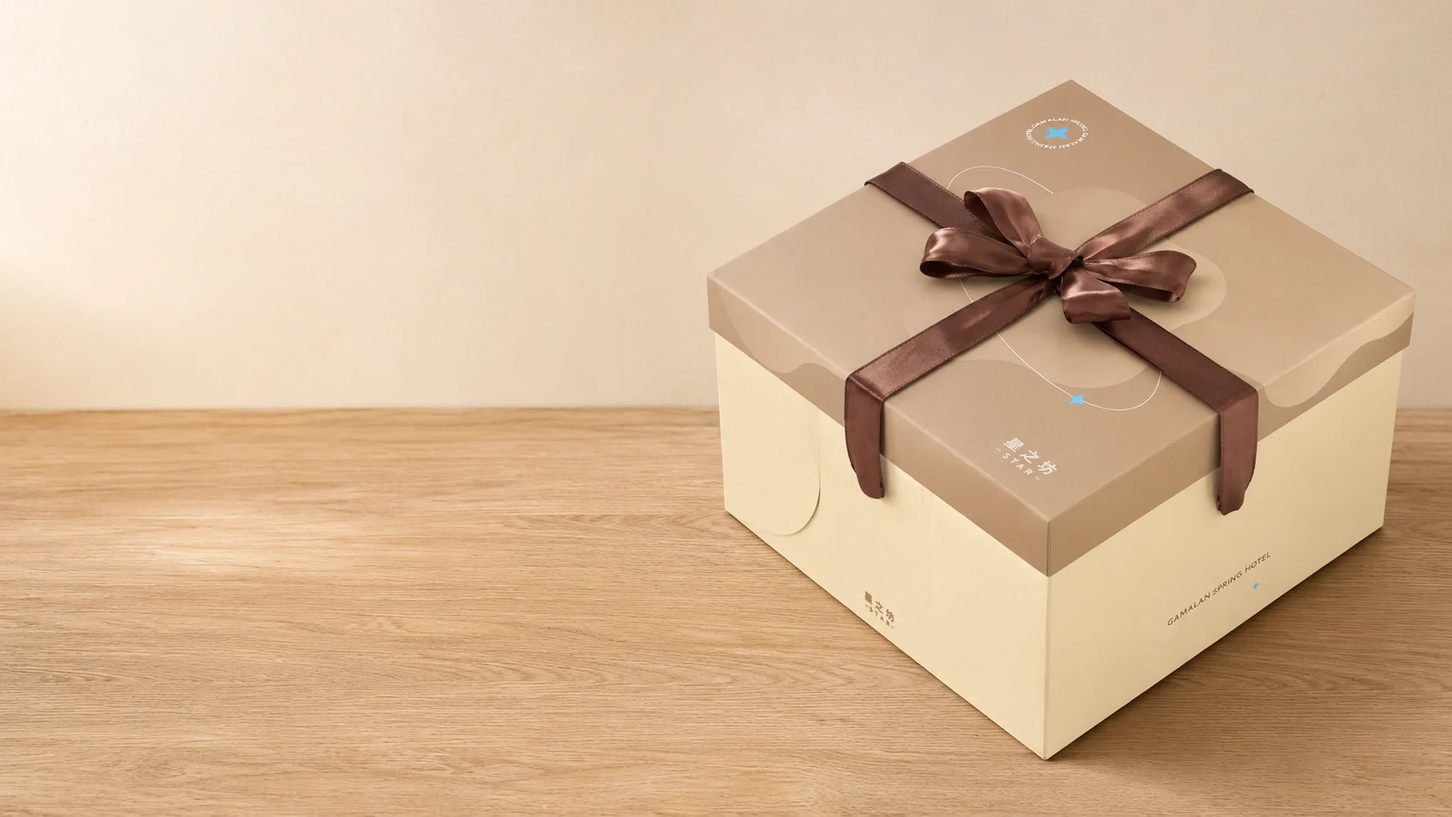
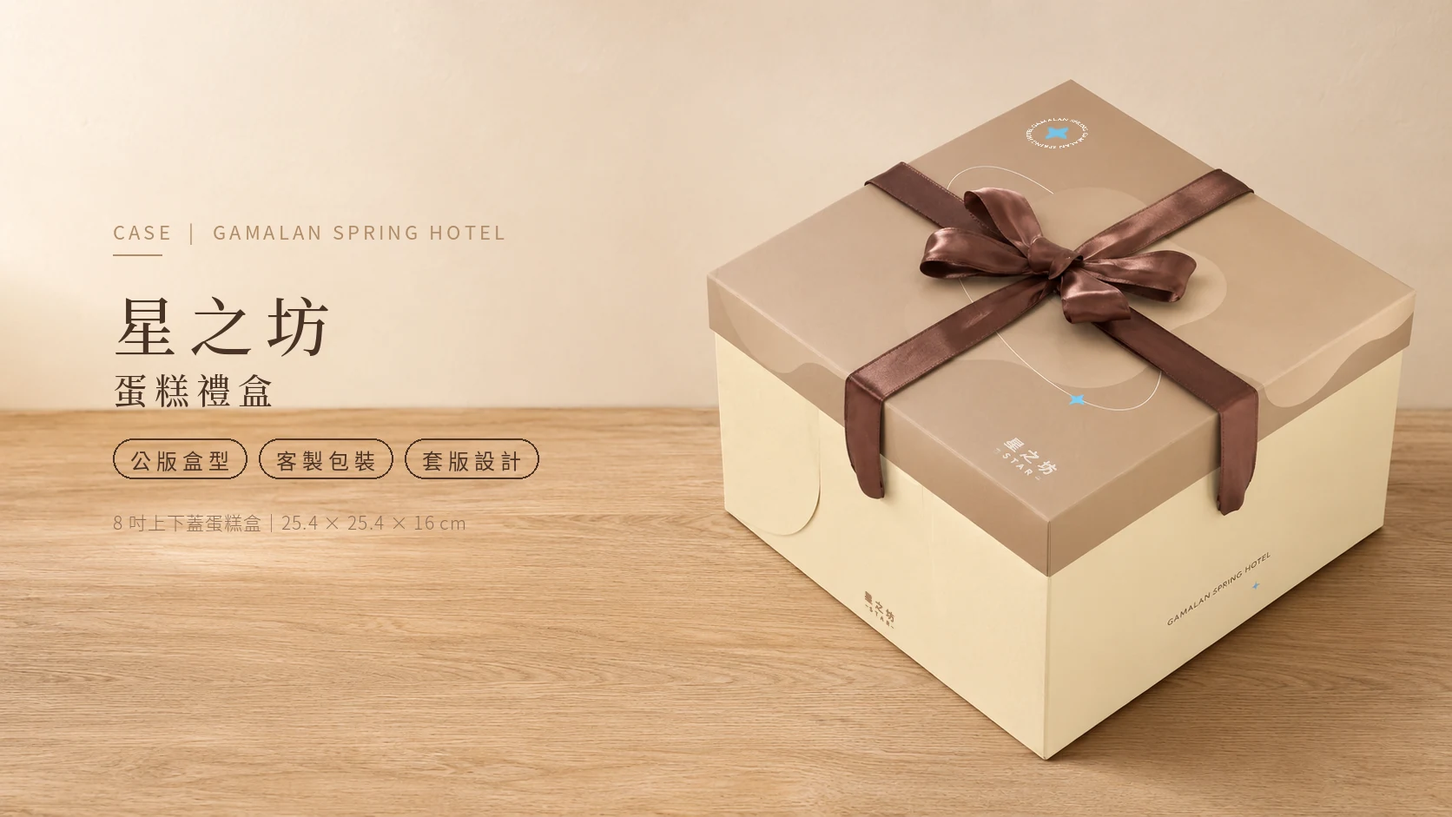
Cases: 星之坊 主視覺改用加字版（左側留白放案例資訊）
Claude-Session: https://claude.ai/code/session_01FHAxfGfD8vpumr7C1YBcXa

diff --git a/cases/gemalan.html b/cases/gemalan.html
@@ -26,7 +26,7 @@
 </header>
 
 <main class="sd-case">
-<article class="cs" style="--cink:#4A3A2E;--caccent:#B39A68;--csub:#9A8C78;--cbg:#FBF6EA"><header class="rl-head2 cs-io"><p class="rl-eb">STOCK PACKAGING</p><h1><span class="rl-lw" style="--lg:url(./gemalan/logo.png);width:min(300px,62vw)"><img class="rl-logo" src="./gemalan/logo.png" alt="葛瑪蘭之星飯店 Logo"></span><span class="sr">葛瑪蘭之星飯店｜星之坊</span></h1><p class="rl-kind">公版盒型・客戶自行設計</p><p class="rl-en">Star Bakery — Cake Boxes on Stock Structures</p><div class="rl-meta2"><div><small>Client</small><b>葛瑪蘭之星飯店｜星之坊</b></div><div><small>Scope</small><b>公版盒型 4 款・印刷生產</b></div><div><small>Year</small><b>2023</b></div></div></header><figure class="rl-hero"><img class="rl-pg" src="./gemalan/s/hero.webp?v=4" alt="星之坊 8吋上下蓋蛋糕盒 情境" loading="eager"></figure><div class="rl-prog" aria-hidden="true"><i></i></div><div class="rl-cnt" aria-hidden="true"><b>01</b><span>/ 09</span></div><section class="rl-reel"><figure class="rl-ai cs-io" style="--W:1920"><div class="rl-st"><img class="rl-pg" src="./gemalan/s/02.webp?v=4" alt="星之坊 02" loading="lazy" decoding="async"><div class="rl-hv"></div><div class="rl-tx"><span class="f-sans" style="--i:0;left:47.750%;top:27.778%;--s:24.0;--ls:0;color:#B39A68;font-weight:600">CLIENT</span><span class="f-serif" style="--i:1;left:41.406%;top:66.667%;--s:30.0;--ls:0;color:#4A3A2E;font-weight:500">葛瑪蘭之星飯店｜星之坊</span></div></div><details class="rl-flow"><summary>展開本頁文字</summary><div class="rl-fb"><p>葛瑪蘭之星飯店｜星之坊</p></div></details></figure><figure class="rl-ai cs-io" style="--W:1920"><div class="rl-st"><img class="rl-pg" src="./gemalan/s/c1.webp?v=5" alt="星之坊 c1" loading="lazy" decoding="async"><div class="rl-hv"></div><div class="rl-tx"><span class="f-sans" style="--i:0;left:4.167%;top:6.481%;--s:24.0;--ls:0.2;color:#B39A68;font-weight:600">STOCK STRUCTURE 01</span><span class="f-sans" style="--i:1;left:4.167%;top:9.815%;--s:24.0;--ls:0;color:#B39A68;font-weight:300">/</span><span class="f-serif" style="--i:2;left:5.625%;top:10.185%;--s:34.0;--ls:0;color:#4A3A2E;font-weight:700">公版盒型</span><span class="f-serif" style="--i:3;left:20.938%;top:86.111%;--s:26.0;--ls:0;color:#6F6A64;font-weight:700">薪鼎公版盒型</span><span class="f-sans" style="--i:4;left:20.834%;top:90.278%;--s:20.0;--ls:0;color:#8E8880;font-weight:400">公版花色「絮語」</span><span class="f-serif" style="--i:5;left:69.854%;top:86.111%;--s:26.0;--ls:0;color:#4A3A2E;font-weight:700">星之坊 套用設計</span><span class="f-sans" style="--i:6;left:66.563%;top:90.278%;--s:20.0;--ls:0;color:#9A8C78;font-weight:400">4吋手提蛋糕盒・14×14×10.5 cm</span></div></div><details class="rl-flow"><summary>展開本頁文字</summary><div class="rl-fb"><p>公版盒型：4吋手提蛋糕盒 14×14×10.5 cm</p><p>左：薪鼎公版盒型（公版花色「絮語」）</p><p>右：星之坊 套用設計</p></div></details></figure><figure class="rl-ai cs-io" style="--W:1920"><div class="rl-st"><img class="rl-pg" src="./gemalan/s/c2.webp?v=5" alt="星之坊 c2" loading="lazy" decoding="async"><div class="rl-hv"></div><div class="rl-tx"><span class="f-sans" style="--i:0;left:4.167%;top:6.481%;--s:24.0;--ls:0.2;color:#B39A68;font-weight:600">STOCK STRUCTURE 02</span><span class="f-sans" style="--i:1;left:4.167%;top:9.815%;--s:24.0;--ls:0;color:#B39A68;font-weight:300">/</span><span class="f-serif" style="--i:2;left:5.625%;top:10.185%;--s:34.0;--ls:0;color:#4A3A2E;font-weight:700">公版盒型</span><span class="f-serif" style="--i:3;left:20.938%;top:86.111%;--s:26.0;--ls:0;color:#6F6A64;font-weight:700">薪鼎公版盒型</span><span class="f-sans" style="--i:4;left:20.834%;top:90.278%;--s:20.0;--ls:0;color:#8E8880;font-weight:400">公版花色「絮語」</span><span class="f-serif" style="--i:5;left:69.854%;top:86.111%;--s:26.0;--ls:0;color:#4A3A2E;font-weight:700">星之坊 套用設計</span><span class="f-sans" style="--i:6;left:66.667%;top:90.278%;--s:20.0;--ls:0;color:#9A8C78;font-weight:400">6吋上下蓋蛋糕盒・21×21×16 cm</span></div></div><details class="rl-flow"><summary>展開本頁文字</summary><div class="rl-fb"><p>公版盒型：6吋上下蓋蛋糕盒 21×21×16 cm</p><p>左：薪鼎公版盒型（公版花色「絮語」）</p><p>右：星之坊 套用設計</p></div></details></figure><figure class="rl-ai cs-io" style="--W:1920"><div class="rl-st"><img class="rl-pg" src="./gemalan/s/c3.webp?v=5" alt="星之坊 c3" loading="lazy" decoding="async"><div class="rl-hv"></div><div class="rl-tx"><span class="f-sans" style="--i:0;left:4.167%;top:6.481%;--s:24.0;--ls:0.2;color:#B39A68;font-weight:600">STOCK STRUCTURE 03</span><span class="f-sans" style="--i:1;left:4.167%;top:9.815%;--s:24.0;--ls:0;color:#B39A68;font-weight:300">/</span><span class="f-serif" style="--i:2;left:5.625%;top:10.185%;--s:34.0;--ls:0;color:#4A3A2E;font-weight:700">公版盒型</span><span class="f-serif" style="--i:3;left:20.938%;top:86.111%;--s:26.0;--ls:0;color:#6F6A64;font-weight:700">薪鼎公版盒型</span><span class="f-sans" style="--i:4;left:20.313%;top:90.278%;--s:20.0;--ls:0;color:#8E8880;font-weight:400">公版花色「蒲公英」</span><span class="f-serif" style="--i:5;left:69.854%;top:86.111%;--s:26.0;--ls:0;color:#4A3A2E;font-weight:700">星之坊 套用設計</span><span class="f-sans" style="--i:6;left:65.417%;top:90.278%;--s:20.0;--ls:0;color:#9A8C78;font-weight:400">8吋上下蓋蛋糕盒・25.4×25.4×16 cm</span></div></div><details class="rl-flow"><summary>展開本頁文字</summary><div class="rl-fb"><p>公版盒型：8吋上下蓋蛋糕盒 25.4×25.4×16 cm</p><p>左：薪鼎公版盒型（公版花色「蒲公英」）</p><p>右：星之坊 套用設計</p></div></details></figure><figure class="rl-ai cs-io" style="--W:1920"><div class="rl-st"><img class="rl-pg" src="./gemalan/s/c4.webp?v=5" alt="星之坊 c4" loading="lazy" decoding="async"><div class="rl-hv"></div><div class="rl-tx"><span class="f-sans" style="--i:0;left:4.167%;top:6.481%;--s:24.0;--ls:0.2;color:#B39A68;font-weight:600">STOCK STRUCTURE 04</span><span class="f-sans" style="--i:1;left:4.167%;top:9.815%;--s:24.0;--ls:0;color:#B39A68;font-weight:300">/</span><span class="f-serif" style="--i:2;left:5.625%;top:10.185%;--s:34.0;--ls:0;color:#4A3A2E;font-weight:700">公版盒型</span><span class="f-serif" style="--i:3;left:20.938%;top:86.111%;--s:26.0;--ls:0;color:#6F6A64;font-weight:700">薪鼎公版盒型</span><span class="f-sans" style="--i:4;left:20.834%;top:90.278%;--s:20.0;--ls:0;color:#8E8880;font-weight:400">公版花色「絮語」</span><span class="f-serif" style="--i:5;left:69.854%;top:86.111%;--s:26.0;--ls:0;color:#4A3A2E;font-weight:700">星之坊 套用設計</span><span class="f-sans" style="--i:6;left:65.417%;top:90.278%;--s:20.0;--ls:0;color:#9A8C78;font-weight:400">花瓣盒（切片蛋糕盒）・15×10×13 cm</span></div></div><details class="rl-flow"><summary>展開本頁文字</summary><div class="rl-fb"><p>公版盒型：花瓣盒（切片蛋糕盒） 15×10×13 cm</p><p>左：薪鼎公版盒型（公版花色「絮語」）</p><p>右：星之坊 套用設計</p></div></details></figure><figure class="rl-ai cs-io" style="--W:1920"><div class="rl-st"><img class="rl-pg" src="./gemalan/s/04.webp?v=4" alt="星之坊 04" loading="lazy" decoding="async"><div class="rl-hv"></div><div class="rl-tx"><span class="f-sans" style="--i:0;left:4.167%;top:6.481%;--s:26.0;--ls:0.2;color:#B39A68;font-weight:600">APPLIED DESIGN</span><span class="f-sans" style="--i:1;left:4.167%;top:10.000%;--s:26.0;--ls:0;color:#B39A68;font-weight:300">/</span><span class="f-serif" style="--i:2;left:5.833%;top:10.370%;--s:34.0;--ls:0;color:#4A3A2E;font-weight:700">套用的設計</span><span class="f-sans" style="--i:3;left:9.375%;top:30.556%;--s:24.0;--ls:0;color:#9A8C78;font-weight:500">設計來源</span><span class="f-serif" style="--i:4;left:9.375%;top:34.259%;--s:40.0;--ls:0;color:#4A3A2E;font-weight:700">客戶自行設計</span><span class="f-sans" style="--i:5;left:9.375%;top:42.593%;--s:24.0;--ls:0;color:#9A8C78;font-weight:500">品牌標誌</span><span class="f-serif" style="--i:6;left:9.375%;top:46.296%;--s:32.0;--ls:0;color:#4A3A2E;font-weight:600">星之坊 STAR</span><span class="f-sans" style="--i:7;left:10.677%;top:67.593%;--s:20.0;--ls:0;color:#9A8C78;font-weight:500">奶油黃</span><span class="f-sans" style="--i:8;left:18.490%;top:67.593%;--s:20.0;--ls:0;color:#9A8C78;font-weight:500">檸檬黃</span><span class="f-sans" style="--i:9;left:26.823%;top:67.593%;--s:20.0;--ls:0;color:#9A8C78;font-weight:500">沙金</span><span class="f-sans" style="--i:10;left:34.115%;top:67.593%;--s:20.0;--ls:0;color:#9A8C78;font-weight:500">可可棕</span><span class="f-sans" style="--i:11;left:42.969%;top:67.593%;--s:20.0;--ls:0;color:#9A8C78;font-weight:500">白</span></div></div><details class="rl-flow"><summary>展開本頁文字</summary><div class="rl-fb"><p>設計來源：客戶自行設計</p><p>品牌標誌：星之坊 STAR</p></div></details></figure><figure class="rl-ai cs-io" style="--W:1920"><div class="rl-st"><img class="rl-pg" src="./gemalan/s/sc6.webp?v=4" alt="星之坊 6吋上下蓋蛋糕盒 情境" loading="lazy" decoding="async"><div class="rl-hv"></div><div class="rl-tx"><span class="f-sans" style="--i:0;left:7.292%;top:30.556%;--s:22.0;--ls:0.2;color:#B39A68;font-weight:600">IN USE 02</span><span class="f-serif" style="--i:1;left:7.292%;top:35.185%;--s:40.0;--ls:0;color:#4A3A2E;font-weight:700">6吋上下蓋蛋糕盒</span><span class="f-sans" style="--i:2;left:7.292%;top:42.593%;--s:20.0;--ls:0;color:#9A8C78;font-weight:400">21 × 21 × 16 cm</span></div></div><details class="rl-flow"><summary>展開本頁文字</summary><div class="rl-fb"><p>6吋上下蓋蛋糕盒 21 × 21 × 16 cm</p></div></details></figure><figure class="rl-ai cs-io" style="--W:1920"><div class="rl-st"><img class="rl-pg" src="./gemalan/s/scpetal.webp?v=4" alt="星之坊 花瓣盒 情境" loading="lazy" decoding="async"><div class="rl-hv"></div><div class="rl-tx"><span class="f-sans" style="--i:0;left:7.292%;top:30.556%;--s:22.0;--ls:0.2;color:#B39A68;font-weight:600">IN USE 03</span><span class="f-serif" style="--i:1;left:7.292%;top:35.185%;--s:40.0;--ls:0;color:#4A3A2E;font-weight:700">花瓣盒（切片蛋糕盒）</span><span class="f-sans" style="--i:2;left:7.292%;top:42.593%;--s:20.0;--ls:0;color:#9A8C78;font-weight:400">15 × 10 × 13 cm</span></div></div><details class="rl-flow"><summary>展開本頁文字</summary><div class="rl-fb"><p>花瓣盒（切片蛋糕盒） 15 × 10 × 13 cm</p></div></details></figure></section><section class="rl-cred"><div class="rl-cl"><p class="rl-ck">Credits</p><p class="rl-nt">（名單待確認）</p></div><ul><li><small>Client</small><b>葛瑪蘭之星飯店｜星之坊</b></li><li><small>Design</small><b>客戶自行設計</b></li><li><small>Stock Structures</small><b>薪鼎公版盒型</b></li><li><small>Production</small><b>Senior Deed</b></li><li><small>Year</small><b>2023</b></li></ul></section><div class="rl-end" style="padding-top:90px"><a href="./"><i>←</i>回到全部作品</a></div></article><script>(function(){document.querySelectorAll('.rl-st').forEach(function(st){var hs=[].slice.call(st.querySelectorAll('.hot'));if(!hs.length)return;var cur=null;function set(g){if(g===cur)return;cur=g;st.querySelectorAll('.hi').forEach(function(e){e.classList.remove('hi')});st.classList.toggle('hv',g!==null);if(g!==null)st.querySelectorAll('[data-g="'+g+'"]').forEach(function(e){e.classList.add('hi')})}st.addEventListener('mousemove',function(ev){var g=null;hs.forEach(function(h){var r=h.getBoundingClientRect();if(ev.clientX>=r.left&&ev.clientX<=r.right&&ev.clientY>=r.top&&ev.clientY<=r.bottom)g=h.dataset.g});set(g)});st.addEventListener('mouseleave',function(){set(null)})});document.addEventListener('click',function(e){var x=e.target.closest('.hex');if(!x)return;var v=x.textContent.trim();(navigator.clipboard?navigator.clipboard.writeText(v):Promise.reject()).catch(function(){}).then(function(){x.classList.add('ok');setTimeout(function(){x.classList.remove('ok')},1400)})});var F=document.querySelector('.rl-float');if(F&&matchMedia('(any-hover:none)').matches){var fo=new IntersectionObserver(function(es){if(es[0].isIntersecting){setTimeout(function(){F.classList.add('go')},2600);fo.disconnect()}},{threshold:.5});fo.observe(F.parentNode)}var R=document.querySelector('.rl-reel');if(R){var bar=document.querySelector('.rl-prog i'),cnt=document.querySelector('.rl-cnt b'),box=document.querySelector('.rl-cnt'),ims=document.querySelectorAll('.rl-pg');function u(){var r=R.getBoundingClientRect(),h=r.height-innerHeight,p=Math.min(1,Math.max(0,-r.top/h));bar.style.transform='scaleX('+p+')';var k=1;ims.forEach(function(im,i){if(im.getBoundingClientRect().top<innerHeight*.5)k=i+1});cnt.textContent=(k<10?'0':'')+k;var on=r.top<120&&r.bottom>innerHeight*.75;box.classList.toggle('on',on);document.querySelector('.rl-prog').classList.toggle('on',on)}addEventListener('scroll',u,{passive:true});u()}var io=new IntersectionObserver(function(es){es.forEach(function(e){if(e.isIntersecting){e.target.classList.add("on");(function(t){setTimeout(function(){t.classList.add("ready")},2600)})(e.target);io.unobserve(e.target)}})},{threshold:.18,rootMargin:"0px 0px -6% 0px"});
+<article class="cs" style="--cink:#4A3A2E;--caccent:#B39A68;--csub:#9A8C78;--cbg:#FBF6EA"><header class="rl-head2 cs-io"><p class="rl-eb">STOCK PACKAGING</p><h1><span class="rl-lw" style="--lg:url(./gemalan/logo.png);width:min(300px,62vw)"><img class="rl-logo" src="./gemalan/logo.png" alt="葛瑪蘭之星飯店 Logo"></span><span class="sr">葛瑪蘭之星飯店｜星之坊</span></h1><p class="rl-kind">公版盒型・客戶自行設計</p><p class="rl-en">Star Bakery — Cake Boxes on Stock Structures</p><div class="rl-meta2"><div><small>Client</small><b>葛瑪蘭之星飯店｜星之坊</b></div><div><small>Scope</small><b>公版盒型 4 款・印刷生產</b></div><div><small>Year</small><b>2023</b></div></div></header><figure class="rl-hero"><img class="rl-pg" src="./gemalan/s/hero.webp?v=5" alt="星之坊 8吋上下蓋蛋糕盒 情境" loading="eager"></figure><div class="rl-prog" aria-hidden="true"><i></i></div><div class="rl-cnt" aria-hidden="true"><b>01</b><span>/ 09</span></div><section class="rl-reel"><figure class="rl-ai cs-io" style="--W:1920"><div class="rl-st"><img class="rl-pg" src="./gemalan/s/02.webp?v=4" alt="星之坊 02" loading="lazy" decoding="async"><div class="rl-hv"></div><div class="rl-tx"><span class="f-sans" style="--i:0;left:47.750%;top:27.778%;--s:24.0;--ls:0;color:#B39A68;font-weight:600">CLIENT</span><span class="f-serif" style="--i:1;left:41.406%;top:66.667%;--s:30.0;--ls:0;color:#4A3A2E;font-weight:500">葛瑪蘭之星飯店｜星之坊</span></div></div><details class="rl-flow"><summary>展開本頁文字</summary><div class="rl-fb"><p>葛瑪蘭之星飯店｜星之坊</p></div></details></figure><figure class="rl-ai cs-io" style="--W:1920"><div class="rl-st"><img class="rl-pg" src="./gemalan/s/c1.webp?v=5" alt="星之坊 c1" loading="lazy" decoding="async"><div class="rl-hv"></div><div class="rl-tx"><span class="f-sans" style="--i:0;left:4.167%;top:6.481%;--s:24.0;--ls:0.2;color:#B39A68;font-weight:600">STOCK STRUCTURE 01</span><span class="f-sans" style="--i:1;left:4.167%;top:9.815%;--s:24.0;--ls:0;color:#B39A68;font-weight:300">/</span><span class="f-serif" style="--i:2;left:5.625%;top:10.185%;--s:34.0;--ls:0;color:#4A3A2E;font-weight:700">公版盒型</span><span class="f-serif" style="--i:3;left:20.938%;top:86.111%;--s:26.0;--ls:0;color:#6F6A64;font-weight:700">薪鼎公版盒型</span><span class="f-sans" style="--i:4;left:20.834%;top:90.278%;--s:20.0;--ls:0;color:#8E8880;font-weight:400">公版花色「絮語」</span><span class="f-serif" style="--i:5;left:69.854%;top:86.111%;--s:26.0;--ls:0;color:#4A3A2E;font-weight:700">星之坊 套用設計</span><span class="f-sans" style="--i:6;left:66.563%;top:90.278%;--s:20.0;--ls:0;color:#9A8C78;font-weight:400">4吋手提蛋糕盒・14×14×10.5 cm</span></div></div><details class="rl-flow"><summary>展開本頁文字</summary><div class="rl-fb"><p>公版盒型：4吋手提蛋糕盒 14×14×10.5 cm</p><p>左：薪鼎公版盒型（公版花色「絮語」）</p><p>右：星之坊 套用設計</p></div></details></figure><figure class="rl-ai cs-io" style="--W:1920"><div class="rl-st"><img class="rl-pg" src="./gemalan/s/c2.webp?v=5" alt="星之坊 c2" loading="lazy" decoding="async"><div class="rl-hv"></div><div class="rl-tx"><span class="f-sans" style="--i:0;left:4.167%;top:6.481%;--s:24.0;--ls:0.2;color:#B39A68;font-weight:600">STOCK STRUCTURE 02</span><span class="f-sans" style="--i:1;left:4.167%;top:9.815%;--s:24.0;--ls:0;color:#B39A68;font-weight:300">/</span><span class="f-serif" style="--i:2;left:5.625%;top:10.185%;--s:34.0;--ls:0;color:#4A3A2E;font-weight:700">公版盒型</span><span class="f-serif" style="--i:3;left:20.938%;top:86.111%;--s:26.0;--ls:0;color:#6F6A64;font-weight:700">薪鼎公版盒型</span><span class="f-sans" style="--i:4;left:20.834%;top:90.278%;--s:20.0;--ls:0;color:#8E8880;font-weight:400">公版花色「絮語」</span><span class="f-serif" style="--i:5;left:69.854%;top:86.111%;--s:26.0;--ls:0;color:#4A3A2E;font-weight:700">星之坊 套用設計</span><span class="f-sans" style="--i:6;left:66.667%;top:90.278%;--s:20.0;--ls:0;color:#9A8C78;font-weight:400">6吋上下蓋蛋糕盒・21×21×16 cm</span></div></div><details class="rl-flow"><summary>展開本頁文字</summary><div class="rl-fb"><p>公版盒型：6吋上下蓋蛋糕盒 21×21×16 cm</p><p>左：薪鼎公版盒型（公版花色「絮語」）</p><p>右：星之坊 套用設計</p></div></details></figure><figure class="rl-ai cs-io" style="--W:1920"><div class="rl-st"><img class="rl-pg" src="./gemalan/s/c3.webp?v=5" alt="星之坊 c3" loading="lazy" decoding="async"><div class="rl-hv"></div><div class="rl-tx"><span class="f-sans" style="--i:0;left:4.167%;top:6.481%;--s:24.0;--ls:0.2;color:#B39A68;font-weight:600">STOCK STRUCTURE 03</span><span class="f-sans" style="--i:1;left:4.167%;top:9.815%;--s:24.0;--ls:0;color:#B39A68;font-weight:300">/</span><span class="f-serif" style="--i:2;left:5.625%;top:10.185%;--s:34.0;--ls:0;color:#4A3A2E;font-weight:700">公版盒型</span><span class="f-serif" style="--i:3;left:20.938%;top:86.111%;--s:26.0;--ls:0;color:#6F6A64;font-weight:700">薪鼎公版盒型</span><span class="f-sans" style="--i:4;left:20.313%;top:90.278%;--s:20.0;--ls:0;color:#8E8880;font-weight:400">公版花色「蒲公英」</span><span class="f-serif" style="--i:5;left:69.854%;top:86.111%;--s:26.0;--ls:0;color:#4A3A2E;font-weight:700">星之坊 套用設計</span><span class="f-sans" style="--i:6;left:65.417%;top:90.278%;--s:20.0;--ls:0;color:#9A8C78;font-weight:400">8吋上下蓋蛋糕盒・25.4×25.4×16 cm</span></div></div><details class="rl-flow"><summary>展開本頁文字</summary><div class="rl-fb"><p>公版盒型：8吋上下蓋蛋糕盒 25.4×25.4×16 cm</p><p>左：薪鼎公版盒型（公版花色「蒲公英」）</p><p>右：星之坊 套用設計</p></div></details></figure><figure class="rl-ai cs-io" style="--W:1920"><div class="rl-st"><img class="rl-pg" src="./gemalan/s/c4.webp?v=5" alt="星之坊 c4" loading="lazy" decoding="async"><div class="rl-hv"></div><div class="rl-tx"><span class="f-sans" style="--i:0;left:4.167%;top:6.481%;--s:24.0;--ls:0.2;color:#B39A68;font-weight:600">STOCK STRUCTURE 04</span><span class="f-sans" style="--i:1;left:4.167%;top:9.815%;--s:24.0;--ls:0;color:#B39A68;font-weight:300">/</span><span class="f-serif" style="--i:2;left:5.625%;top:10.185%;--s:34.0;--ls:0;color:#4A3A2E;font-weight:700">公版盒型</span><span class="f-serif" style="--i:3;left:20.938%;top:86.111%;--s:26.0;--ls:0;color:#6F6A64;font-weight:700">薪鼎公版盒型</span><span class="f-sans" style="--i:4;left:20.834%;top:90.278%;--s:20.0;--ls:0;color:#8E8880;font-weight:400">公版花色「絮語」</span><span class="f-serif" style="--i:5;left:69.854%;top:86.111%;--s:26.0;--ls:0;color:#4A3A2E;font-weight:700">星之坊 套用設計</span><span class="f-sans" style="--i:6;left:65.417%;top:90.278%;--s:20.0;--ls:0;color:#9A8C78;font-weight:400">花瓣盒（切片蛋糕盒）・15×10×13 cm</span></div></div><details class="rl-flow"><summary>展開本頁文字</summary><div class="rl-fb"><p>公版盒型：花瓣盒（切片蛋糕盒） 15×10×13 cm</p><p>左：薪鼎公版盒型（公版花色「絮語」）</p><p>右：星之坊 套用設計</p></div></details></figure><figure class="rl-ai cs-io" style="--W:1920"><div class="rl-st"><img class="rl-pg" src="./gemalan/s/04.webp?v=4" alt="星之坊 04" loading="lazy" decoding="async"><div class="rl-hv"></div><div class="rl-tx"><span class="f-sans" style="--i:0;left:4.167%;top:6.481%;--s:26.0;--ls:0.2;color:#B39A68;font-weight:600">APPLIED DESIGN</span><span class="f-sans" style="--i:1;left:4.167%;top:10.000%;--s:26.0;--ls:0;color:#B39A68;font-weight:300">/</span><span class="f-serif" style="--i:2;left:5.833%;top:10.370%;--s:34.0;--ls:0;color:#4A3A2E;font-weight:700">套用的設計</span><span class="f-sans" style="--i:3;left:9.375%;top:30.556%;--s:24.0;--ls:0;color:#9A8C78;font-weight:500">設計來源</span><span class="f-serif" style="--i:4;left:9.375%;top:34.259%;--s:40.0;--ls:0;color:#4A3A2E;font-weight:700">客戶自行設計</span><span class="f-sans" style="--i:5;left:9.375%;top:42.593%;--s:24.0;--ls:0;color:#9A8C78;font-weight:500">品牌標誌</span><span class="f-serif" style="--i:6;left:9.375%;top:46.296%;--s:32.0;--ls:0;color:#4A3A2E;font-weight:600">星之坊 STAR</span><span class="f-sans" style="--i:7;left:10.677%;top:67.593%;--s:20.0;--ls:0;color:#9A8C78;font-weight:500">奶油黃</span><span class="f-sans" style="--i:8;left:18.490%;top:67.593%;--s:20.0;--ls:0;color:#9A8C78;font-weight:500">檸檬黃</span><span class="f-sans" style="--i:9;left:26.823%;top:67.593%;--s:20.0;--ls:0;color:#9A8C78;font-weight:500">沙金</span><span class="f-sans" style="--i:10;left:34.115%;top:67.593%;--s:20.0;--ls:0;color:#9A8C78;font-weight:500">可可棕</span><span class="f-sans" style="--i:11;left:42.969%;top:67.593%;--s:20.0;--ls:0;color:#9A8C78;font-weight:500">白</span></div></div><details class="rl-flow"><summary>展開本頁文字</summary><div class="rl-fb"><p>設計來源：客戶自行設計</p><p>品牌標誌：星之坊 STAR</p></div></details></figure><figure class="rl-ai cs-io" style="--W:1920"><div class="rl-st"><img class="rl-pg" src="./gemalan/s/sc6.webp?v=4" alt="星之坊 6吋上下蓋蛋糕盒 情境" loading="lazy" decoding="async"><div class="rl-hv"></div><div class="rl-tx"><span class="f-sans" style="--i:0;left:7.292%;top:30.556%;--s:22.0;--ls:0.2;color:#B39A68;font-weight:600">IN USE 02</span><span class="f-serif" style="--i:1;left:7.292%;top:35.185%;--s:40.0;--ls:0;color:#4A3A2E;font-weight:700">6吋上下蓋蛋糕盒</span><span class="f-sans" style="--i:2;left:7.292%;top:42.593%;--s:20.0;--ls:0;color:#9A8C78;font-weight:400">21 × 21 × 16 cm</span></div></div><details class="rl-flow"><summary>展開本頁文字</summary><div class="rl-fb"><p>6吋上下蓋蛋糕盒 21 × 21 × 16 cm</p></div></details></figure><figure class="rl-ai cs-io" style="--W:1920"><div class="rl-st"><img class="rl-pg" src="./gemalan/s/scpetal.webp?v=4" alt="星之坊 花瓣盒 情境" loading="lazy" decoding="async"><div class="rl-hv"></div><div class="rl-tx"><span class="f-sans" style="--i:0;left:7.292%;top:30.556%;--s:22.0;--ls:0.2;color:#B39A68;font-weight:600">IN USE 03</span><span class="f-serif" style="--i:1;left:7.292%;top:35.185%;--s:40.0;--ls:0;color:#4A3A2E;font-weight:700">花瓣盒（切片蛋糕盒）</span><span class="f-sans" style="--i:2;left:7.292%;top:42.593%;--s:20.0;--ls:0;color:#9A8C78;font-weight:400">15 × 10 × 13 cm</span></div></div><details class="rl-flow"><summary>展開本頁文字</summary><div class="rl-fb"><p>花瓣盒（切片蛋糕盒） 15 × 10 × 13 cm</p></div></details></figure></section><section class="rl-cred"><div class="rl-cl"><p class="rl-ck">Credits</p><p class="rl-nt">（名單待確認）</p></div><ul><li><small>Client</small><b>葛瑪蘭之星飯店｜星之坊</b></li><li><small>Design</small><b>客戶自行設計</b></li><li><small>Stock Structures</small><b>薪鼎公版盒型</b></li><li><small>Production</small><b>Senior Deed</b></li><li><small>Year</small><b>2023</b></li></ul></section><div class="rl-end" style="padding-top:90px"><a href="./"><i>←</i>回到全部作品</a></div></article><script>(function(){document.querySelectorAll('.rl-st').forEach(function(st){var hs=[].slice.call(st.querySelectorAll('.hot'));if(!hs.length)return;var cur=null;function set(g){if(g===cur)return;cur=g;st.querySelectorAll('.hi').forEach(function(e){e.classList.remove('hi')});st.classList.toggle('hv',g!==null);if(g!==null)st.querySelectorAll('[data-g="'+g+'"]').forEach(function(e){e.classList.add('hi')})}st.addEventListener('mousemove',function(ev){var g=null;hs.forEach(function(h){var r=h.getBoundingClientRect();if(ev.clientX>=r.left&&ev.clientX<=r.right&&ev.clientY>=r.top&&ev.clientY<=r.bottom)g=h.dataset.g});set(g)});st.addEventListener('mouseleave',function(){set(null)})});document.addEventListener('click',function(e){var x=e.target.closest('.hex');if(!x)return;var v=x.textContent.trim();(navigator.clipboard?navigator.clipboard.writeText(v):Promise.reject()).catch(function(){}).then(function(){x.classList.add('ok');setTimeout(function(){x.classList.remove('ok')},1400)})});var F=document.querySelector('.rl-float');if(F&&matchMedia('(any-hover:none)').matches){var fo=new IntersectionObserver(function(es){if(es[0].isIntersecting){setTimeout(function(){F.classList.add('go')},2600);fo.disconnect()}},{threshold:.5});fo.observe(F.parentNode)}var R=document.querySelector('.rl-reel');if(R){var bar=document.querySelector('.rl-prog i'),cnt=document.querySelector('.rl-cnt b'),box=document.querySelector('.rl-cnt'),ims=document.querySelectorAll('.rl-pg');function u(){var r=R.getBoundingClientRect(),h=r.height-innerHeight,p=Math.min(1,Math.max(0,-r.top/h));bar.style.transform='scaleX('+p+')';var k=1;ims.forEach(function(im,i){if(im.getBoundingClientRect().top<innerHeight*.5)k=i+1});cnt.textContent=(k<10?'0':'')+k;var on=r.top<120&&r.bottom>innerHeight*.75;box.classList.toggle('on',on);document.querySelector('.rl-prog').classList.toggle('on',on)}addEventListener('scroll',u,{passive:true});u()}var io=new IntersectionObserver(function(es){es.forEach(function(e){if(e.isIntersecting){e.target.classList.add("on");(function(t){setTimeout(function(){t.classList.add("ready")},2600)})(e.target);io.unobserve(e.target)}})},{threshold:.18,rootMargin:"0px 0px -6% 0px"});
 document.querySelectorAll(".cs-io").forEach(function(el){io.observe(el)});var io2=new IntersectionObserver(function(es){es.forEach(function(e){if(e.isIntersecting){e.target.classList.add('in');io2.unobserve(e.target)}})},{threshold:.12});document.querySelectorAll('.rl-reel > .rl-pg, .rl-reel > .rl-kb').forEach(function(el){io2.observe(el)});
 var VI=new IntersectionObserver(function(es){es.forEach(function(e){var v=e.target.querySelector('video');if(e.isIntersecting){v.preload='auto';v.play().catch(function(){})}else v.pause()})},{threshold:.35});document.querySelectorAll('.rl-vid,.rl-clip,.rl-v16').forEach(function(b){VI.observe(b);var bt=b.querySelector('.rl-snd');if(bt)bt.addEventListener('click',function(){var v=b.querySelector('video');v.muted=!v.muted;if(!v.muted)v.volume=.3;bt.classList.toggle('on',!v.muted);if(!v.muted){v.currentTime=0;v.play()}})});document.querySelectorAll('.rl-jy').forEach(function(J){var its=[].slice.call(J.querySelectorAll('.jy-it')),vs=its.map(function(i){return i.querySelector('video')}),cur=-1,vis=false,hov=false;function go(k){if(cur>-1){vs[cur].pause();its[cur].classList.remove('on')}cur=k;its.forEach(function(it,i){it.classList.toggle('done',i<k)});its[k].classList.add('on');J.style.setProperty('--p',k);vs[k].currentTime=0;vs[k].play().catch(function(){})}vs.forEach(function(v,i){v.preload='auto';v.addEventListener('ended',function(){if(!vis)return;go(hov?i:(i+1)%vs.length)})});its.forEach(function(it,i){it.addEventListener('mouseenter',function(){hov=true;if(i!==cur)go(i)});it.addEventListener('mouseleave',function(){hov=false})});new IntersectionObserver(function(es){vis=es[0].isIntersecting;if(vis){go(cur<0?0:cur)}else if(cur>-1)vs[cur].pause()},{threshold:.4}).observe(J)});var h=document.querySelector(".cs-hero .cs-im img");if(h&&!matchMedia("(prefers-reduced-motion: reduce)").matches){addEventListener("scroll",function(){var y=Math.min(scrollY,900);h.style.transform="translateY("+(y*.18)+"px) scale(1.06)"},{passive:true})}})();</script>
 </main>
